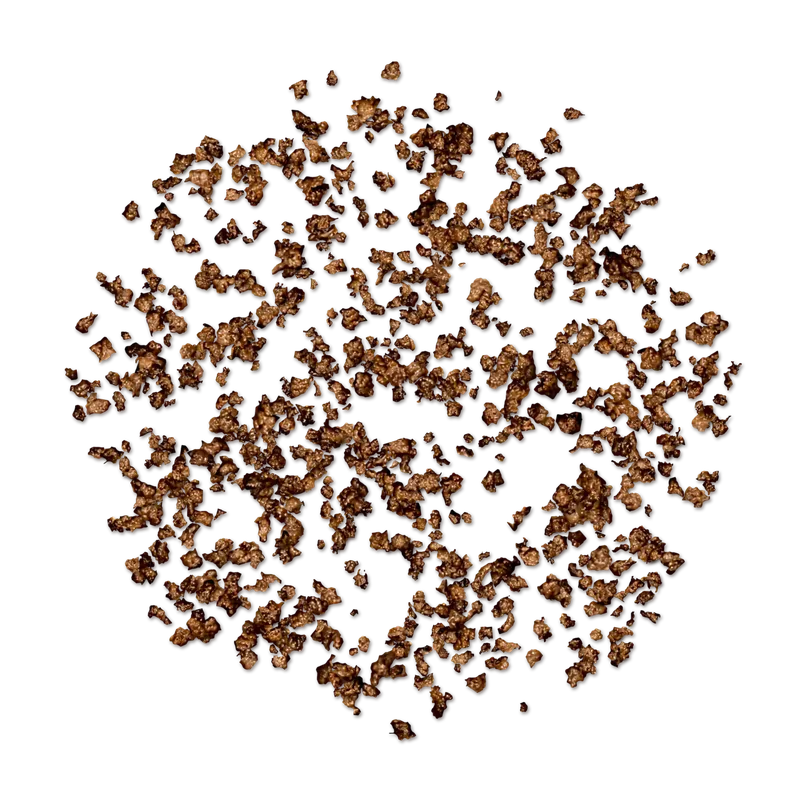
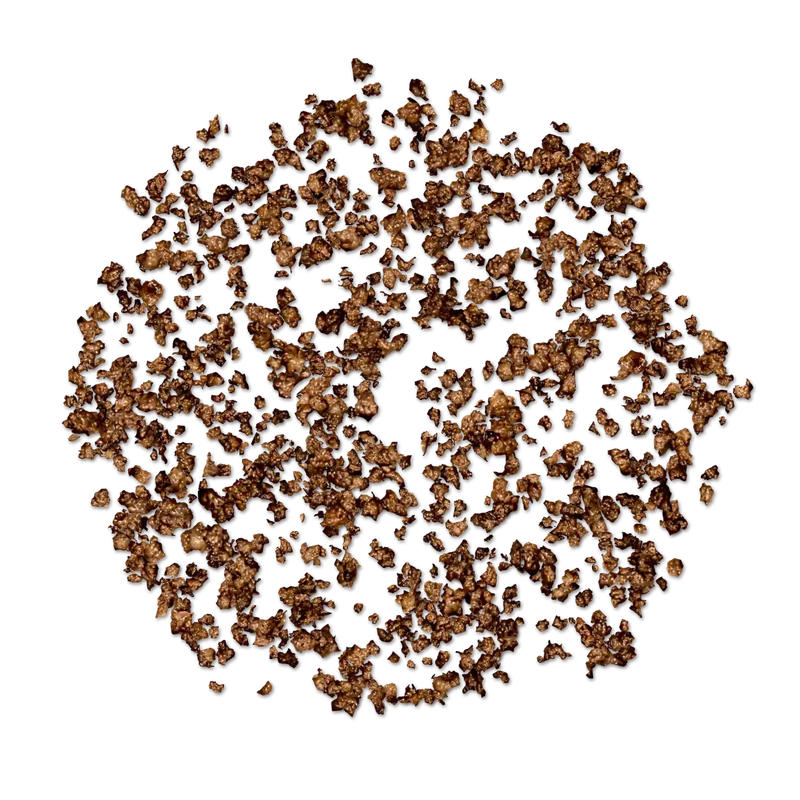
Pizza: capa nueva de carne molida, un poco más grande para que llegue a la orilla
Cada topping puede tener su propio tamaño con data-escala en el HTML.

Claude-Session: https://claude.ai/code/session_01DxqiBbKBv4wDbq6rgi9yCV

diff --git a/Pages/pizza.html b/Pages/pizza.html
@@ -7,8 +7,8 @@
 <link rel="icon" href="../IMG/Logo-taz.png" type="image/png">
 <title>Pizza · TAZ Fast Food</title>
 <link href="https://fonts.googleapis.com/css2?family=Anton&family=Nunito:wght@500;700;800&display=swap" rel="stylesheet">
-<link rel="stylesheet" href="../Styles/pizza.css?v=31">
-<link rel="stylesheet" href="../Styles/checkout.css?v=31">
+<link rel="stylesheet" href="../Styles/pizza.css?v=32">
+<link rel="stylesheet" href="../Styles/checkout.css?v=32">
 </head>
 <body>
 <header class="top">
@@ -72,16 +72,16 @@
     <section class="step">
       <h3><i>1</i><span id="espTitle">Especialidad</span></h3>
       <div class="opts opts-base">
-      <button class="op" type="button" data-g="base" data-i="0" data-img="../IMG/Pizzas/hawaiana.webp?v=31" data-pz="13,19,24" data-tp="🍍 🧀 🥓" aria-pressed="false"><em>🍕</em><span class="tx"><b>Hawaiana</b><small>Piña, queso rayado, jamón (opcional cerezas)</small></span><span class="pr">$13.00</span></button>
-      <button class="op" type="button" data-g="base" data-i="1" data-img="../IMG/Pizzas/pepperoni.webp?v=31" data-pz="13,19,24" data-tp="🔴 🧀 🥓" aria-pressed="false"><em>🍕</em><span class="tx"><b>Pepperoni</b><small>Pepperoni, queso y jamón</small></span><span class="pr">$13.00</span></button>
-      <button class="op" type="button" data-g="base" data-i="2" data-img="../IMG/Pizzas/tropical.webp?v=31" data-pz="15,22,26" data-tp="🍍 🍒 🍑 🥓 🧀" aria-pressed="false"><em>🍕</em><span class="tx"><b>Tropical</b><small>Piña, cereza, durazno, jamón, queso y salsa de la casa</small></span><span class="pr">$15.00</span></button>
-      <button class="op" type="button" data-g="base" data-i="3" data-img="../IMG/Pizzas/ay-dios-mio.webp?v=31" data-pz="15,22,28" data-tp="🍗 🍄 🧀" aria-pressed="false"><em>🍕</em><span class="tx"><b>Ay Dios Mío</b><small>Pollo desmechado, champiñones, jamón, queso rayado y salsa de la casa</small></span><span class="pr">$15.00</span></button>
-      <button class="op" type="button" data-g="base" data-i="4" data-img="../IMG/Pizzas/californiana.webp?v=31" data-pz="16,24,29" data-tp="🍗 🍄 🦐 🥓 🧀 🌶" aria-pressed="false"><em>🍕</em><span class="tx"><b>Californiana</b><small>Pollo desmechado, champiñones, camarones, jamón, pimentón rojo y verde, queso rayado y salsa de la casa</small></span><span class="pr">$16.00</span></button>
-      <button class="op" type="button" data-g="base" data-i="5" data-img="../IMG/Pizzas/mexicana.webp?v=31" data-pz="16,24,29" data-tp="🥩 🥓 🧀 🌶 🧅" aria-pressed="false"><em>🍕</em><span class="tx"><b>Mexicana</b><small>Carne desmechada, jamón, queso rayado, pimentón, cebolla, salsa picosa de la casa y tocineta</small></span><span class="pr">$16.00</span></button>
-      <button class="op" type="button" data-g="base" data-i="6" data-img="../IMG/Pizzas/camarones.webp?v=31" data-pz="20,26,32" data-tp="🦐 🥓 🧀 🌶" aria-pressed="false"><em>🍕</em><span class="tx"><b>Camarones</b><small>Camarones, jamón, queso rayado, pimentón y salsa de la casa</small></span><span class="pr">$20.00</span></button>
-      <button class="op" type="button" data-g="base" data-i="7" data-img="../IMG/Pizzas/la-4k.webp?v=31" data-pz="22,28,34" data-tp="🥓 🌭 🧀 🥩" aria-pressed="false"><em>🍕</em><span class="tx"><b>La 4K</b><small>Jamón, carne de res, pollo, chorizo, tocino y queso rayado</small></span><span class="pr">$22.00</span></button>
-      <button class="op" type="button" data-g="base" data-i="8" data-img="../IMG/Pizzas/legendaria.webp?v=31" data-pz="16,22,28" data-tp="🥩 🌽 🥓 🌶 🧀" aria-pressed="false"><em>🍕</em><span class="tx"><b>Legendaria</b><small>Carne molida, maíz, tocino, pimiento, jamón, queso y salsa de la casa</small></span><span class="pr">$16.00</span></button>
-      <button class="op cartel" type="button" data-g="base" data-i="9" data-img="../IMG/Pizzas/base-queso.webp?v=31" data-pz="10,15,19" data-custom="1" aria-pressed="false"><em><i class="blank" aria-hidden="true"></i></em><span class="tx"><span class="tag">¡Nueva!</span><b>Pizza a tu gusto</b><small>Empieza con una pizza en blanco (masa y queso) y ponle todos los ingredientes que quieras.</small></span><span class="pr">$10.00</span></button>
+      <button class="op" type="button" data-g="base" data-i="0" data-img="../IMG/Pizzas/hawaiana.webp?v=32" data-pz="13,19,24" data-tp="🍍 🧀 🥓" aria-pressed="false"><em>🍕</em><span class="tx"><b>Hawaiana</b><small>Piña, queso rayado, jamón (opcional cerezas)</small></span><span class="pr">$13.00</span></button>
+      <button class="op" type="button" data-g="base" data-i="1" data-img="../IMG/Pizzas/pepperoni.webp?v=32" data-pz="13,19,24" data-tp="🔴 🧀 🥓" aria-pressed="false"><em>🍕</em><span class="tx"><b>Pepperoni</b><small>Pepperoni, queso y jamón</small></span><span class="pr">$13.00</span></button>
+      <button class="op" type="button" data-g="base" data-i="2" data-img="../IMG/Pizzas/tropical.webp?v=32" data-pz="15,22,26" data-tp="🍍 🍒 🍑 🥓 🧀" aria-pressed="false"><em>🍕</em><span class="tx"><b>Tropical</b><small>Piña, cereza, durazno, jamón, queso y salsa de la casa</small></span><span class="pr">$15.00</span></button>
+      <button class="op" type="button" data-g="base" data-i="3" data-img="../IMG/Pizzas/ay-dios-mio.webp?v=32" data-pz="15,22,28" data-tp="🍗 🍄 🧀" aria-pressed="false"><em>🍕</em><span class="tx"><b>Ay Dios Mío</b><small>Pollo desmechado, champiñones, jamón, queso rayado y salsa de la casa</small></span><span class="pr">$15.00</span></button>
+      <button class="op" type="button" data-g="base" data-i="4" data-img="../IMG/Pizzas/californiana.webp?v=32" data-pz="16,24,29" data-tp="🍗 🍄 🦐 🥓 🧀 🌶" aria-pressed="false"><em>🍕</em><span class="tx"><b>Californiana</b><small>Pollo desmechado, champiñones, camarones, jamón, pimentón rojo y verde, queso rayado y salsa de la casa</small></span><span class="pr">$16.00</span></button>
+      <button class="op" type="button" data-g="base" data-i="5" data-img="../IMG/Pizzas/mexicana.webp?v=32" data-pz="16,24,29" data-tp="🥩 🥓 🧀 🌶 🧅" aria-pressed="false"><em>🍕</em><span class="tx"><b>Mexicana</b><small>Carne desmechada, jamón, queso rayado, pimentón, cebolla, salsa picosa de la casa y tocineta</small></span><span class="pr">$16.00</span></button>
+      <button class="op" type="button" data-g="base" data-i="6" data-img="../IMG/Pizzas/camarones.webp?v=32" data-pz="20,26,32" data-tp="🦐 🥓 🧀 🌶" aria-pressed="false"><em>🍕</em><span class="tx"><b>Camarones</b><small>Camarones, jamón, queso rayado, pimentón y salsa de la casa</small></span><span class="pr">$20.00</span></button>
+      <button class="op" type="button" data-g="base" data-i="7" data-img="../IMG/Pizzas/la-4k.webp?v=32" data-pz="22,28,34" data-tp="🥓 🌭 🧀 🥩" aria-pressed="false"><em>🍕</em><span class="tx"><b>La 4K</b><small>Jamón, carne de res, pollo, chorizo, tocino y queso rayado</small></span><span class="pr">$22.00</span></button>
+      <button class="op" type="button" data-g="base" data-i="8" data-img="../IMG/Pizzas/legendaria.webp?v=32" data-pz="16,22,28" data-tp="🥩 🌽 🥓 🌶 🧀" aria-pressed="false"><em>🍕</em><span class="tx"><b>Legendaria</b><small>Carne molida, maíz, tocino, pimiento, jamón, queso y salsa de la casa</small></span><span class="pr">$16.00</span></button>
+      <button class="op cartel" type="button" data-g="base" data-i="9" data-img="../IMG/Pizzas/base-queso.webp?v=32" data-pz="10,15,19" data-custom="1" aria-pressed="false"><em><i class="blank" aria-hidden="true"></i></em><span class="tx"><span class="tag">¡Nueva!</span><b>Pizza a tu gusto</b><small>Empieza con una pizza en blanco (masa y queso) y ponle todos los ingredientes que quieras.</small></span><span class="pr">$10.00</span></button>
       </div>
     </section>
     <section class="step">
@@ -95,14 +95,14 @@
       <div class="catpanel" data-cat="pro" hidden>
         <div class="cathead"><button class="back" type="button">‹ Volver</button><b>🍗 Proteínas</b></div>
         <div class="opts opts-ex">
-          <button class="op" type="button" data-g="ex" data-i="0" data-layer="../IMG/Toppings/capas/queso.webp?v=31" data-p="2" data-cat="pro" aria-pressed="false"><em>🧀</em><span class="tx"><b>Queso extra</b></span><span class="pr">+$2.00</span></button>
-          <button class="op" type="button" data-g="ex" data-i="1" data-layer="../IMG/Toppings/capas/jamon.webp?v=31" data-p="2" data-cat="pro" aria-pressed="false"><em>🍖</em><span class="tx"><b>Jamón</b></span><span class="pr">+$2.00</span></button>
+          <button class="op" type="button" data-g="ex" data-i="0" data-layer="../IMG/Toppings/capas/queso.webp?v=32" data-p="2" data-cat="pro" aria-pressed="false"><em>🧀</em><span class="tx"><b>Queso extra</b></span><span class="pr">+$2.00</span></button>
+          <button class="op" type="button" data-g="ex" data-i="1" data-layer="../IMG/Toppings/capas/jamon.webp?v=32" data-p="2" data-cat="pro" aria-pressed="false"><em>🍖</em><span class="tx"><b>Jamón</b></span><span class="pr">+$2.00</span></button>
           <button class="op" type="button" data-g="ex" data-i="2" data-p="2" data-cat="pro" aria-pressed="false"><em>🥓</em><span class="tx"><b>Tocineta</b></span><span class="pr">+$2.00</span></button>
-          <button class="op" type="button" data-g="ex" data-i="3" data-layer="../IMG/Toppings/capas/pepperoni.webp?v=31" data-p="2" data-cat="pro" aria-pressed="false"><em>🔴</em><span class="tx"><b>Pepperoni</b></span><span class="pr">+$2.00</span></button>
-          <button class="op" type="button" data-g="ex" data-i="4" data-layer="../IMG/Toppings/capas/pollo-desmechado.webp?v=31" data-p="2.5" data-cat="pro" aria-pressed="false"><em>🍗</em><span class="tx"><b>Pollo desmechado</b></span><span class="pr">+$2.50</span></button>
+          <button class="op" type="button" data-g="ex" data-i="3" data-layer="../IMG/Toppings/capas/pepperoni.webp?v=32" data-p="2" data-cat="pro" aria-pressed="false"><em>🔴</em><span class="tx"><b>Pepperoni</b></span><span class="pr">+$2.00</span></button>
+          <button class="op" type="button" data-g="ex" data-i="4" data-layer="../IMG/Toppings/capas/pollo-desmechado.webp?v=32" data-p="2.5" data-cat="pro" aria-pressed="false"><em>🍗</em><span class="tx"><b>Pollo desmechado</b></span><span class="pr">+$2.50</span></button>
           <button class="op" type="button" data-g="ex" data-i="5" data-p="2.5" data-cat="pro" aria-pressed="false"><em>🥩</em><span class="tx"><b>Carne desmechada</b></span><span class="pr">+$2.50</span></button>
-          <button class="op" type="button" data-g="ex" data-i="6" data-layer="../IMG/Toppings/capas/carne-molida.webp?v=31" data-p="2.5" data-cat="pro" aria-pressed="false"><em>🧆</em><span class="tx"><b>Carne molida</b></span><span class="pr">+$2.50</span></button>
-          <button class="op" type="button" data-g="ex" data-i="7" data-layer="../IMG/Toppings/capas/chorizo.webp?v=31" data-p="2" data-cat="pro" aria-pressed="false"><em><img class="ic" src="../IMG/Toppings/chorizo.webp?v=31" alt=""></em><span class="tx"><b>Chorizo</b></span><span class="pr">+$2.00</span></button>
+          <button class="op" type="button" data-g="ex" data-i="6" data-escala="1.12" data-layer="../IMG/Toppings/capas/carne-molida.webp?v=32" data-p="2.5" data-cat="pro" aria-pressed="false"><em>🧆</em><span class="tx"><b>Carne molida</b></span><span class="pr">+$2.50</span></button>
+          <button class="op" type="button" data-g="ex" data-i="7" data-layer="../IMG/Toppings/capas/chorizo.webp?v=32" data-p="2" data-cat="pro" aria-pressed="false"><em><img class="ic" src="../IMG/Toppings/chorizo.webp?v=32" alt=""></em><span class="tx"><b>Chorizo</b></span><span class="pr">+$2.00</span></button>
           <button class="op" type="button" data-g="ex" data-i="8" data-p="3.5" data-cat="pro" aria-pressed="false"><em>🦐</em><span class="tx"><b>Camarones</b></span><span class="pr">+$3.50</span></button>
         </div>
       </div>
@@ -150,9 +150,9 @@
 </aside>
 <template id="tpl-item"><div class="it"><div class="row"><b class="nm"></b><span class="pt"></span></div><p class="ln"></p><div class="row"><div class="qty"><button data-c="-1" aria-label="Menos">−</button><span class="qn"></span><button data-c="1" aria-label="Más">+</button></div><button class="x" data-c="del">Quitar</button></div></div></template>
 <div class="toast" id="toast" role="status">Agregado al carrito</div>
-<script src="../JS/cart.js?v=31"></script>
-<script src="../JS/pizza.js?v=31"></script>
-<script src="../JS/toppings.js?v=31"></script>
-<script src="../JS/checkout.js?v=31"></script>
+<script src="../JS/cart.js?v=32"></script>
+<script src="../JS/pizza.js?v=32"></script>
+<script src="../JS/toppings.js?v=32"></script>
+<script src="../JS/checkout.js?v=32"></script>
 </body>
 </html>

diff --git a/JS/pizza.js b/JS/pizza.js
@@ -18,7 +18,7 @@ const G={};
 $$('.op').forEach(el=>{
   const d=el.dataset;
   (G[d.g]=G[d.g]||[]).push({el,n:el.querySelector('b').textContent,e:(im=>im?'img:'+im.getAttribute('src'):el.querySelector('em').textContent)(el.querySelector('em img')),pr:el.querySelector('.pr'),
-    p:+d.p||0,pz:d.pz?d.pz.split(',').map(Number):null,img:d.img||'',tp:(d.tp||'').split(' ').filter(Boolean),custom:d.custom==='1',layer:d.layer||'',ok:false});
+    p:+d.p||0,pz:d.pz?d.pz.split(',').map(Number):null,img:d.img||'',tp:(d.tp||'').split(' ').filter(Boolean),custom:d.custom==='1',layer:d.layer||'',escala:d.escala||'',ok:false});
 });
 
 const part=(base,edge=0)=>({base,ex:[],edge});
@@ -40,7 +40,8 @@ const nombre=k=>(s.n===2?'Mitad ':'Cuarto ')+(k+1);
 const FONDO=['Carne molida','Queso extra'];
 const nivel=i=>{const k=FONDO.indexOf(G.ex[i].n);return k<0?FONDO.length+i:k};
 const capas=p=>[...p.ex].sort((a,c)=>nivel(a)-nivel(c)).filter(i=>G.ex[i].layer).map((i,k)=>{const im=new Image();im.src=G.ex[i].layer;im.alt='';im.className='capa';
-  im.style.setProperty('--r',(i*67+k*41)%360+'deg');im.style.setProperty('--f',k%2?-1:1);return im});
+  im.style.setProperty('--r',(i*67+k*41)%360+'deg');im.style.setProperty('--f',k%2?-1:1);
+  if(G.ex[i].escala)im.style.setProperty('--s',G.ex[i].escala);return im});
 const sinCapa=p=>p.ex.filter(i=>!G.ex[i].layer).map(i=>G.ex[i].e);
 /* Ícono de un topping: emoji o imagen (los que en el HTML tienen <img> dentro de <em>) */
 const ico=e=>{if(!e.startsWith('img:'))return document.createTextNode(e);const i=new Image();i.src=e.slice(4);i.alt='';i.className='ic';return i};

diff --git a/Styles/pizza.css b/Styles/pizza.css
@@ -449,7 +449,7 @@ footer a.sc:active{transform:translateY(3px);box-shadow:0 1px 0 #120303}
 
 /* ---- Capas de toppings (foto del ingrediente regado sobre la pizza) ---- */
 .capas{position:absolute;inset:0;border-radius:50%;overflow:hidden;pointer-events:none}
-.pz .spin .capas img.capa,.pz .sec img.capa{position:absolute;inset:0;width:100%;height:100%;object-fit:contain;opacity:1;border-radius:0;transform:rotate(var(--r,0deg)) scaleX(var(--f,1)) scale(1.03);animation:capa .35s ease-out;filter:drop-shadow(1px 2px 1px #0005)}
+.pz .spin .capas img.capa,.pz .sec img.capa{position:absolute;inset:0;width:100%;height:100%;object-fit:contain;opacity:1;border-radius:0;transform:rotate(var(--r,0deg)) scaleX(var(--f,1)) scale(var(--s,1.03));animation:capa .35s ease-out;filter:drop-shadow(1px 2px 1px #0005)}
 @keyframes capa{from{opacity:0;transform:rotate(var(--r,0deg)) scaleX(var(--f,1)) scale(1.1)}}
 .pz.is-split .capas{display:none}
 
